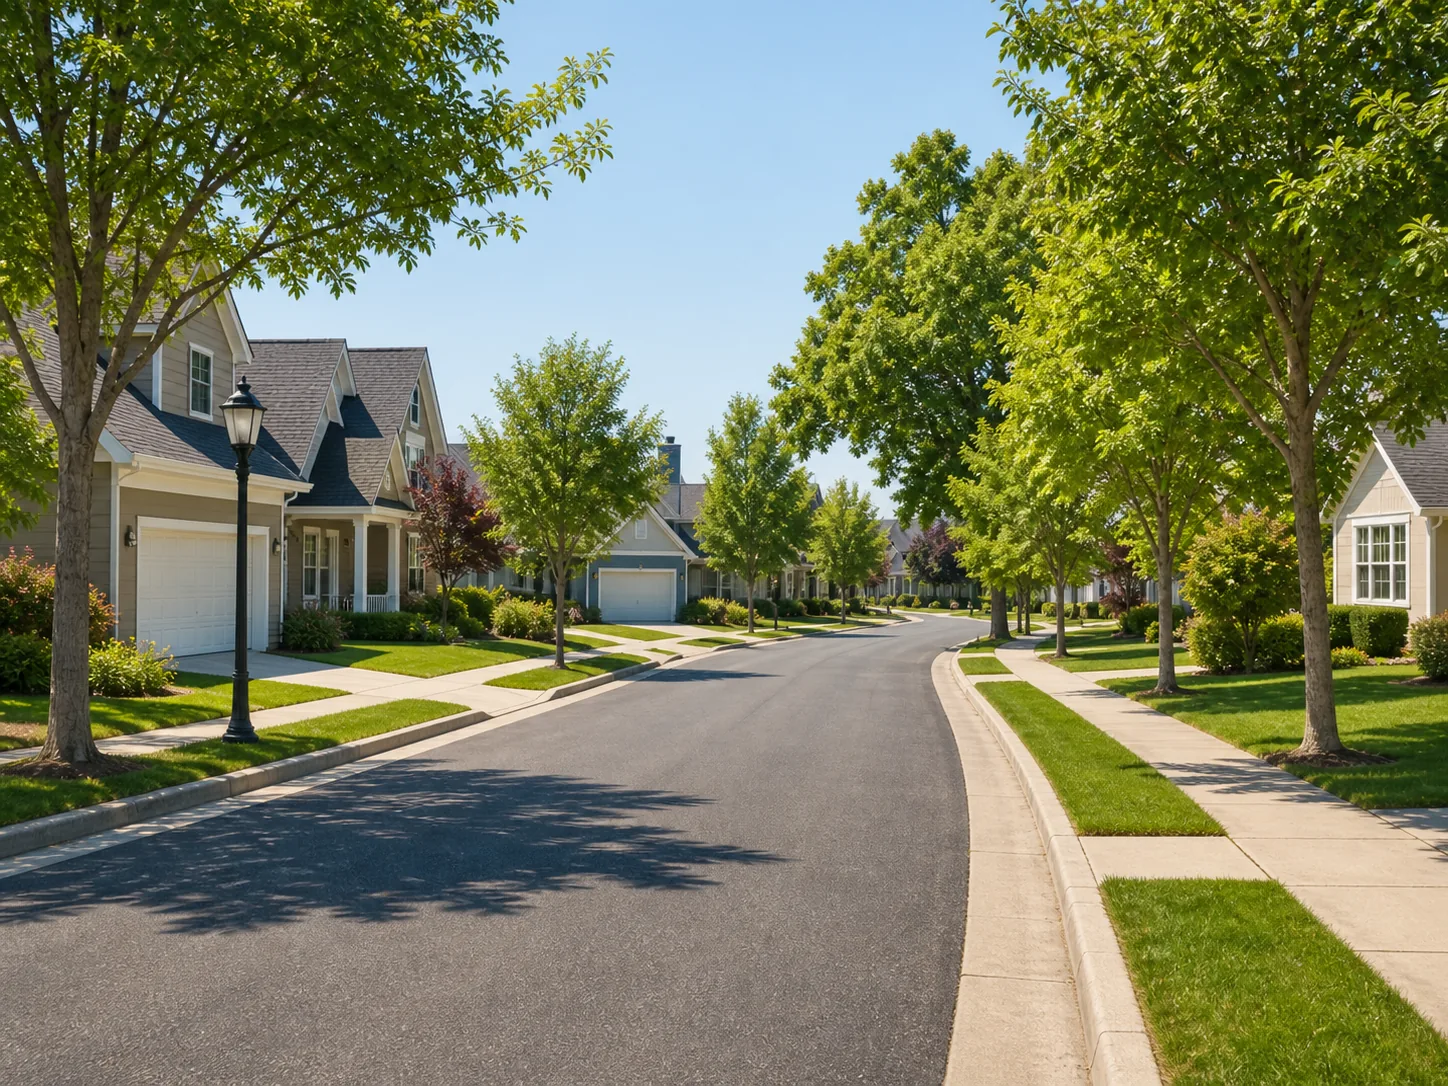
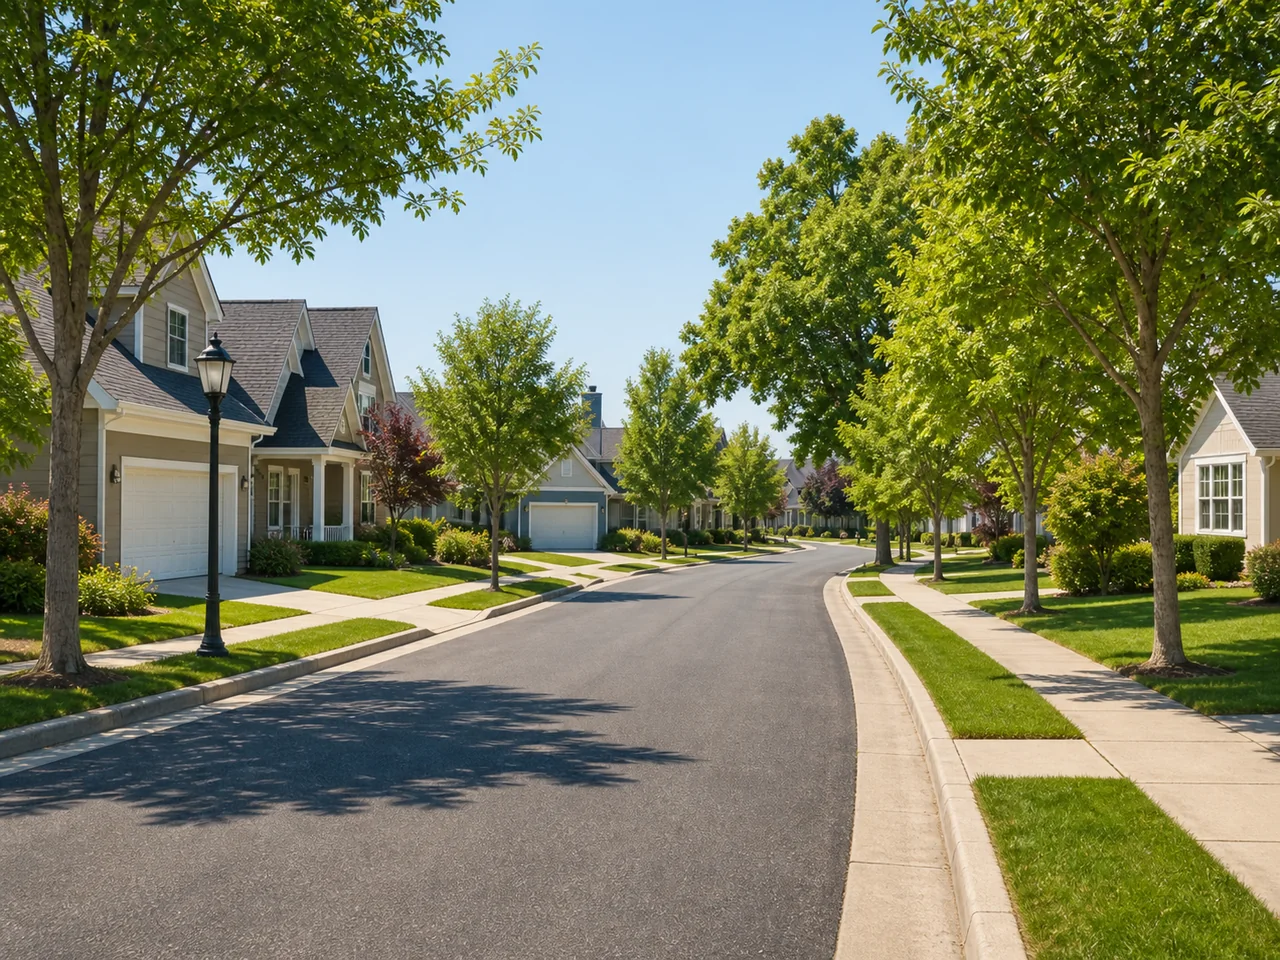
Refresh missing street lesson image

diff --git a/backend/app/data.py b/backend/app/data.py
@@ -10,7 +10,12 @@ LESSON_IMAGE_DIR = ROOT_DIR / "Lessons" / "Lesson1" / "images"
 
 def image_url(name: str) -> str:
     image_name = Path(name).with_suffix('.webp').name
-    cache_version = "?v=20260801-unified-plural-v2" if image_name.startswith("they_") else ""
+    if image_name.startswith("they_"):
+        cache_version = "?v=20260801-unified-plural-v2"
+    elif image_name.startswith(("place_", "object_")):
+        cache_version = "?v=20260801-objects-places-v2"
+    else:
+        cache_version = ""
     return f"/lesson-assets/{image_name}{cache_version}"
 
 
